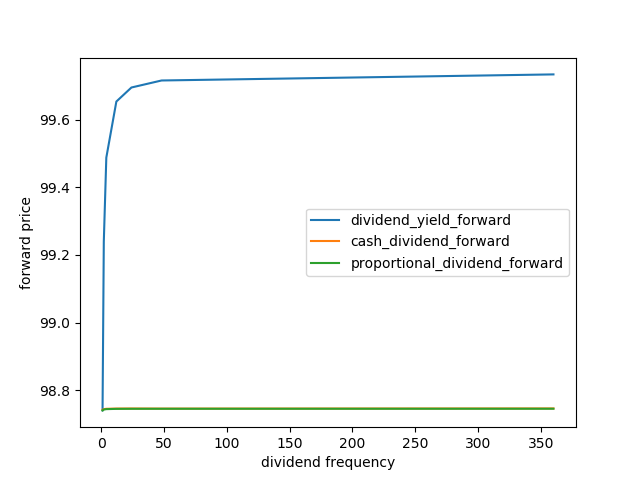
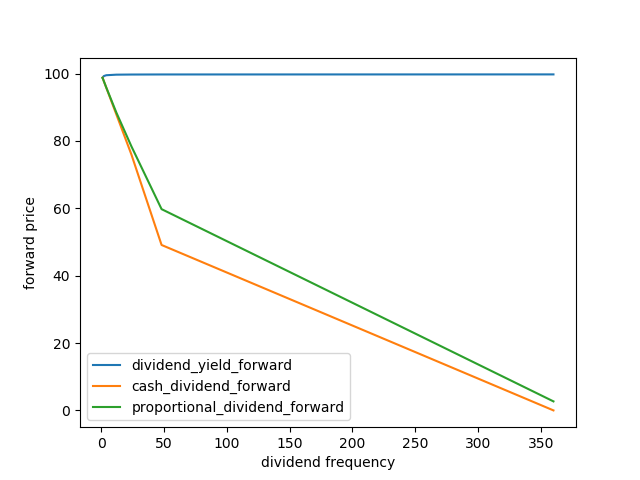
passing dividend as double

diff --git a/main.py b/main.py
@@ -15,7 +15,7 @@ r = 0.01
 market = MarketData(spot=S0, vol=vol, r=r)
 delta = 0.01
 # TODO: this div amount is inconsistent with the rest
-market.set_div(div_amount=0.01, div_type=DividendType.ContinuousYield)
+'''market.set_div(div_amount=0.01, div_type=DividendType.ContinuousYield)
 
 K = 100
 T = 360
@@ -46,8 +46,40 @@ dividend3 = np.zeros(360)
 dividend3[179] = delta
 market.set_div(div_amount=dividend3, div_type=DividendType.DiscreteProp)
 Price(option, market, model)
+Price(forward, market, model)'''
+
+market.set_div(div_amount=0.01, frequency=180, div_type=DividendType.ContinuousYield)
+
+K = 100
+T = 360
+t = 0
+option = EuropeanOption(K=K, T=T, t=t, cp=1)
+forward = Forward(K=0.0, T=T, t=t, cp=1)
+n_path = 100000
+model = MonteCarlo(n_path, t, T)
+
+Price(option, market, Analytic())
+market.reset_div()
+dividend1 = market.div_convert(div_amount=delta, frequency=1, fr_type=DividendType.DiscreteProp,
+                               to_type=DividendType.ContinuousYield)
+market.set_div(div_amount=dividend1, frequency=1, div_type=DividendType.ContinuousYield)
+Price(option, market, model)
 Price(forward, market, model)
 
+market.reset_div()
+d = market.div_convert(div_amount=delta, frequency=1, fr_type=DividendType.DiscreteProp, to_type=DividendType.DiscreteCash)
+'''dividend2 = np.zeros(360)
+dividend2[179] = d  # d = S0*e^(rt)*delta'''
+market.set_div(div_amount=d, frequency=1, div_type=DividendType.DiscreteCash)
+Price(option, market, model)
+Price(forward, market, model)
+
+market.reset_div()
+'''dividend3 = np.zeros(360)
+dividend3[179] = delta'''
+market.set_div(div_amount=delta, frequency=1, div_type=DividendType.DiscreteProp)
+Price(option, market, model)
+Price(forward, market, model)
 
 # compare ATM European call in 3 dividends
 '''dividend_yield=[]
@@ -71,99 +103,92 @@ np.save('proportional_dividend.npy',proportional_dividend)'''
 '''
 
 # TODO: update this part
-# #
-# frequency = [1,2,4,12,24,48,360]        # frequency n times per year
-# dividend_yield_freq=[]
-# cash_dividend_freq=[]
-# proportional_dividend_freq=[]
 #
-# dividend_yield_forward=[]
-# cash_dividend_forward=[]
-# proportional_dividend_forward=[]
-#
-# delta_annual = 0.01
-#
-# model = MonteCarlo(n_path, t, T)
-# for i in frequency:
-#     delta = delta_annual/i
-#     q = -i*math.log(1 - delta/i) / 360   # daily yield
-#     d = delta * S0 * math.exp(r / i)
-#
-#     dividend1 = np.ones(360) * q
-#     dividend2 = np.zeros(360)
-#     dividend3 = np.zeros(360)
-#
-#     delta_t = 360//i
-#     for j in range(i):
-#         dividend2[(j+1)*delta_t-1] = d  # d = S0*e^(rt)*delta
-#         dividend3[(j+1)*delta_t-1] = delta
-#
-#     parameter1 = {'S0': S0, 'K': K, 'T': T, 't': t, 'vol': vol, 'r': r, 'q': dividend1}  # annual dividend rate (compounded)
-#     parameter11 = {'S0': S0, 'K': 0, 'T': T, 't': t, 'vol': vol, 'r': r, 'q': dividend1}  # annual dividend rate (compounded)
-#     print('frequency: ',i)
-#     C1 = Price(EuropeanOption, parameter1, model)
-#     F1 = Price(EuropeanOption, parameter11, model)
-#     print("European call with dividend yield : ", C1)
-#     print("Forward with dividend yield : ", F1)
-#
-#
-#     parameter2 = {'S0': S0, 'K': K, 'T': T, 't': t, 'vol': vol, 'r': r, 'd': dividend2}
-#     parameter22 = {'S0': S0, 'K': 0, 'T': T, 't': t, 'vol': vol, 'r': r, 'd': dividend2}
-#     C2 = Price(EuropeanOption, parameter2, model)
-#     F2 = Price(EuropeanOption, parameter22, model)
-#     print("European call with discrete cash dividend: ", C2)
-#     print("Forward with discrete cash dividend: ", F2)
-#
-#
-#     parameter3 = {'S0': S0, 'K': K, 'T': T, 't': t, 'vol': vol, 'r': r, 'delta': dividend3}
-#     parameter33 = {'S0': S0, 'K': 0, 'T': T, 't': t, 'vol': vol, 'r': r, 'delta': dividend3}
-#     C3 = Price(EuropeanOption, parameter3, model)
-#     F3 = Price(EuropeanOption, parameter33, model)
-#     print("European call with discrete proportional dividend: ", C3)
-#     print("Forward with discrete proportional dividend: ", F3)
-#     print()
-#
-#     dividend_yield_freq.append(C1)
-#     cash_dividend_freq.append(C2)
-#     proportional_dividend_freq.append(C3)
-#
-#     dividend_yield_forward.append(F1)
-#     cash_dividend_forward.append(F2)
-#     proportional_dividend_forward.append(F3)
-#
-# np.save('frequency.npy', frequency)
-# np.save('dividend_yield_freq.npy', dividend_yield_freq)
-# np.save('cash_dividend_freq.npy', cash_dividend_freq)
-# np.save('proportional_dividend_freq.npy', proportional_dividend_freq)
-# plt.plot(frequency, dividend_yield_freq, label='dividend_yield')
-# plt.plot(frequency, cash_dividend_freq, label='cash_dividend')
-# plt.plot(frequency, proportional_dividend_freq, label='proportional_dividend')
-# plt.legend()
-# plt.xlabel('dividend frequency')
-# plt.ylabel('European call price')
-# plt.savefig("frequency-price.png")
-# plt.show()
-#
-# np.save('dividend_yield_forward.npy', dividend_yield_forward)
-# np.save('cash_dividend_forward.npy', cash_dividend_forward)
-# np.save('proportional_dividend_forward.npy', proportional_dividend_forward)
-# plt.plot(frequency, dividend_yield_forward, label='dividend_yield_forward')
-# plt.plot(frequency, cash_dividend_forward, label='cash_dividend_forward')
-# plt.plot(frequency, proportional_dividend_forward, label='proportional_dividend_forward')
-# plt.legend()
-# plt.xlabel('dividend frequency')
-# plt.ylabel('forward price')
-# plt.savefig("frequency-forward.png")
-# plt.show()
-#
-# print(dividend_yield_freq)
-# print(cash_dividend_freq)
-# print(proportional_dividend_freq)
-# print(dividend_yield_forward)
-# print(cash_dividend_forward)
-# print(proportional_dividend_forward)
-#
-# '''
+frequency = [1,2,4,12,24,48,360]        # frequency n times per year
+dividend_yield_freq=[]
+cash_dividend_freq=[]
+proportional_dividend_freq=[]
+
+dividend_yield_forward=[]
+cash_dividend_forward=[]
+proportional_dividend_forward=[]
+
+K = 100
+T = 360
+t = 0
+n_path = 100000
+for i in frequency:
+    print('frequency: ', i)
+    delta_annual = 0.01/i
+
+    market.set_div(div_amount=delta_annual, frequency=180, div_type=DividendType.ContinuousYield)
+
+    option = EuropeanOption(K=K, T=T, t=t, cp=1)
+    forward = Forward(K=0.0, T=T, t=t, cp=1)
+    model = MonteCarlo(n_path, t, T)
+
+    Price(option, market, Analytic())
+    market.reset_div()
+    dividend1 = market.div_convert(div_amount=delta_annual, frequency=i, fr_type=DividendType.DiscreteProp,
+                                   to_type=DividendType.ContinuousYield)
+    market.set_div(div_amount=dividend1, frequency=i, div_type=DividendType.ContinuousYield)
+    C1 = Price(option, market, model)
+    F1 = Price(forward, market, model)
+
+    market.reset_div()
+    d = market.div_convert(div_amount=delta, frequency=i, fr_type=DividendType.DiscreteProp,
+                           to_type=DividendType.DiscreteCash)
+    market.set_div(div_amount=d, frequency=i, div_type=DividendType.DiscreteCash)
+    C2 = Price(option, market, model)
+    F2 = Price(forward, market, model)
+
+    market.reset_div()
+    market.set_div(div_amount=delta, frequency=i, div_type=DividendType.DiscreteProp)
+    C3 = Price(option, market, model)
+    F3 = Price(forward, market, model)
+
+    print()
+
+    dividend_yield_freq.append(C1)
+    cash_dividend_freq.append(C2)
+    proportional_dividend_freq.append(C3)
+
+    dividend_yield_forward.append(F1)
+    cash_dividend_forward.append(F2)
+    proportional_dividend_forward.append(F3)
+
+np.save('./results/frequency.npy', frequency)
+np.save('./results/dividend_yield_freq.npy', dividend_yield_freq)
+np.save('./results/cash_dividend_freq.npy', cash_dividend_freq)
+np.save('./results/proportional_dividend_freq.npy', proportional_dividend_freq)
+plt.plot(frequency, dividend_yield_freq, label='dividend_yield')
+plt.plot(frequency, cash_dividend_freq, label='cash_dividend')
+plt.plot(frequency, proportional_dividend_freq, label='proportional_dividend')
+plt.legend()
+plt.xlabel('dividend frequency')
+plt.ylabel('European call price')
+plt.savefig("./results/frequency-price.png")
+plt.show()
+
+np.save('./results/dividend_yield_forward.npy', dividend_yield_forward)
+np.save('./results/cash_dividend_forward.npy', cash_dividend_forward)
+np.save('./results/proportional_dividend_forward.npy', proportional_dividend_forward)
+plt.plot(frequency, dividend_yield_forward, label='dividend_yield_forward')
+plt.plot(frequency, cash_dividend_forward, label='cash_dividend_forward')
+plt.plot(frequency, proportional_dividend_forward, label='proportional_dividend_forward')
+plt.legend()
+plt.xlabel('dividend frequency')
+plt.ylabel('forward price')
+plt.savefig("./results/frequency-forward.png")
+plt.show()
+
+print(dividend_yield_freq)
+print(cash_dividend_freq)
+print(proportional_dividend_freq)
+print(dividend_yield_forward)
+print(cash_dividend_forward)
+print(proportional_dividend_forward)
+'''
 # [3.9424289966357033, 4.21623893697899, 4.356583873411636, 4.451563121902687, 4.4755012591324395, 4.487500311199823, 4.497915066989274]
 # [3.9821585316279577, 3.973347544683029, 3.9690642989938034, 3.9661751823207125, 3.9654580005882045, 3.963575144635045, 3.964785179264228]
 # [3.9423121816462143, 3.9436543081391044, 3.944322133738035, 3.9447661505682543, 3.9448770055844773, 3.9449324106370645, 3.944980416240857]

diff --git a/MarketData.py b/MarketData.py
@@ -19,32 +19,46 @@ class MarketData:
         self.q = 0.0
         self.d = None
         self.delta = None
+        self.frequency = None
 
     def reset_div(self):
         self.q = 0.0
         self.d = None
         self.delta = None
 
-    def set_div(self, div_amount: any, div_type: DividendType):
+    def set_div(self, div_amount: any, div_type: DividendType, frequency: int):
         self.div_type = div_type
+        self.frequency = frequency
         if div_type == DividendType.ContinuousYield:
             self.q = div_amount
         elif div_type == DividendType.DiscreteCash:
-            self.d = div_amount.copy()
+            #self.d = div_amount.copy()
+            self.d = div_amount
         elif div_type == DividendType.DiscreteProp:
-            self.delta = div_amount.copy()
+            #self.delta = div_amount.copy()
+            self.delta = div_amount
         else:
             raise NotImplementedError
         # self.div_freq = div_freq
 
-    def div_convert(self, div_amount: float, fr_type: DividendType, to_type: DividendType) -> float:
+    def div_convert(self, div_amount: float, frequency: int, fr_type: DividendType, to_type: DividendType) -> float:
+        # frequency: number of payment per year
         if fr_type == to_type:
             return div_amount
         elif fr_type == DividendType.ContinuousYield and to_type == DividendType.DiscreteCash:
             raise NotImplementedError
         elif fr_type == DividendType.DiscreteProp and to_type == DividendType.DiscreteCash:
             # TODO: remove hard code
-            return div_amount * self.spot * math.exp(self.r / 360 * 180)
+            #return div_amount * self.spot * math.exp(self.r / 360 * 180)
+            if frequency == 0:
+                return 0
+            else:
+                dt = frequency/360
+                return div_amount * self.spot * math.exp(self.r * dt)
+            #delta * S0 * math.exp(r / i)
         elif fr_type == DividendType.DiscreteProp and to_type == DividendType.ContinuousYield:
             # TODO: remove hard code
-            return -math.log(1 - div_amount) / 360  # daily yield
+            if frequency == 0:
+                return 0
+            else:
+                return -frequency * math.log(1 - div_amount/frequency) / 360

diff --git a/PricingModel.py b/PricingModel.py
@@ -57,19 +57,22 @@ class MonteCarlo(PricingModel):
     #     self.ST = np.ones(self.n_path) * self.S0  # S0
     #     self.Wt = np.random.normalmtrand.RandomState(seed=42).randn(self.n_path, self.T - self.t)
 
-    def generate_ST(self, S0, vol, r, T, t, d, q, delta):
+    def generate_ST(self, S0, vol, r, T, t, d, q, delta, frequency):
         n_timestep = T - t
-        q = np.ones(n_timestep) * q
-        if d is None:
-            d = np.zeros(n_timestep)
-        if delta is None:
-            delta = np.zeros(n_timestep)
-
+        q1 = np.ones(n_timestep) * q
+        d1 = np.zeros(n_timestep)
+        delta1 = np.zeros(n_timestep)
+        if frequency!=0:
+            dt = 360//frequency
+            if d is not None:
+                d1[dt-1::dt] = np.ones(len(d1[dt-1::dt])) * d
+            if delta is not None:
+                delta1[dt-1::dt] = np.ones(len(delta1[dt-1::dt])) * delta
         ST = np.array([S0] * self.n_path)  # S0
         for i in range(0, T - t):
-            dS = ST * (np.ones(self.n_path) * (r - q[i]) + vol * self.Wt[i:i + self.n_path]) - np.ones(self.n_path) * d[
+            dS = ST * (np.ones(self.n_path) * (r - q1[i]) + vol * self.Wt[i:i + self.n_path]) - np.ones(self.n_path) * d1[
                 i]  # daily increment
-            ST = (ST + dS) * (1 - delta[i])  # discrete proportional dividend is paid at market close
+            ST = (ST + dS) * (1 - delta1[i])  # discrete proportional dividend is paid at market close
             if min(ST) < 0:
                 print("cash divident: S", i, "<0")  # it the stock price is negative after paying dividend
         # TODO: contradicting basis

diff --git a/Price.py b/Price.py
@@ -9,13 +9,14 @@ def Price(option: Option, market: MarketData, model: PricingModel, print_details
     if model.model_type() == ModelType.MonteCarlo:
         result = option.PriceByPath(model.generate_ST(S0=market.spot, vol=market.vol, r=market.r / 360,
                                                     T=option.T, t=option.t, d=market.d, q=market.q,
-                                                    delta=market.delta))
+                                                    delta=market.delta, frequency=market.frequency))
     elif model.model_type() == ModelType.Analytic:
         result = option.PriceByBS(market)
     else:
         raise NotImplementedError
     if print_details:
         print(option.option_type(), model.model_type(), market.div_type, result)
+    return result
 
 
 '''def Price(option_name, parameters, model):
